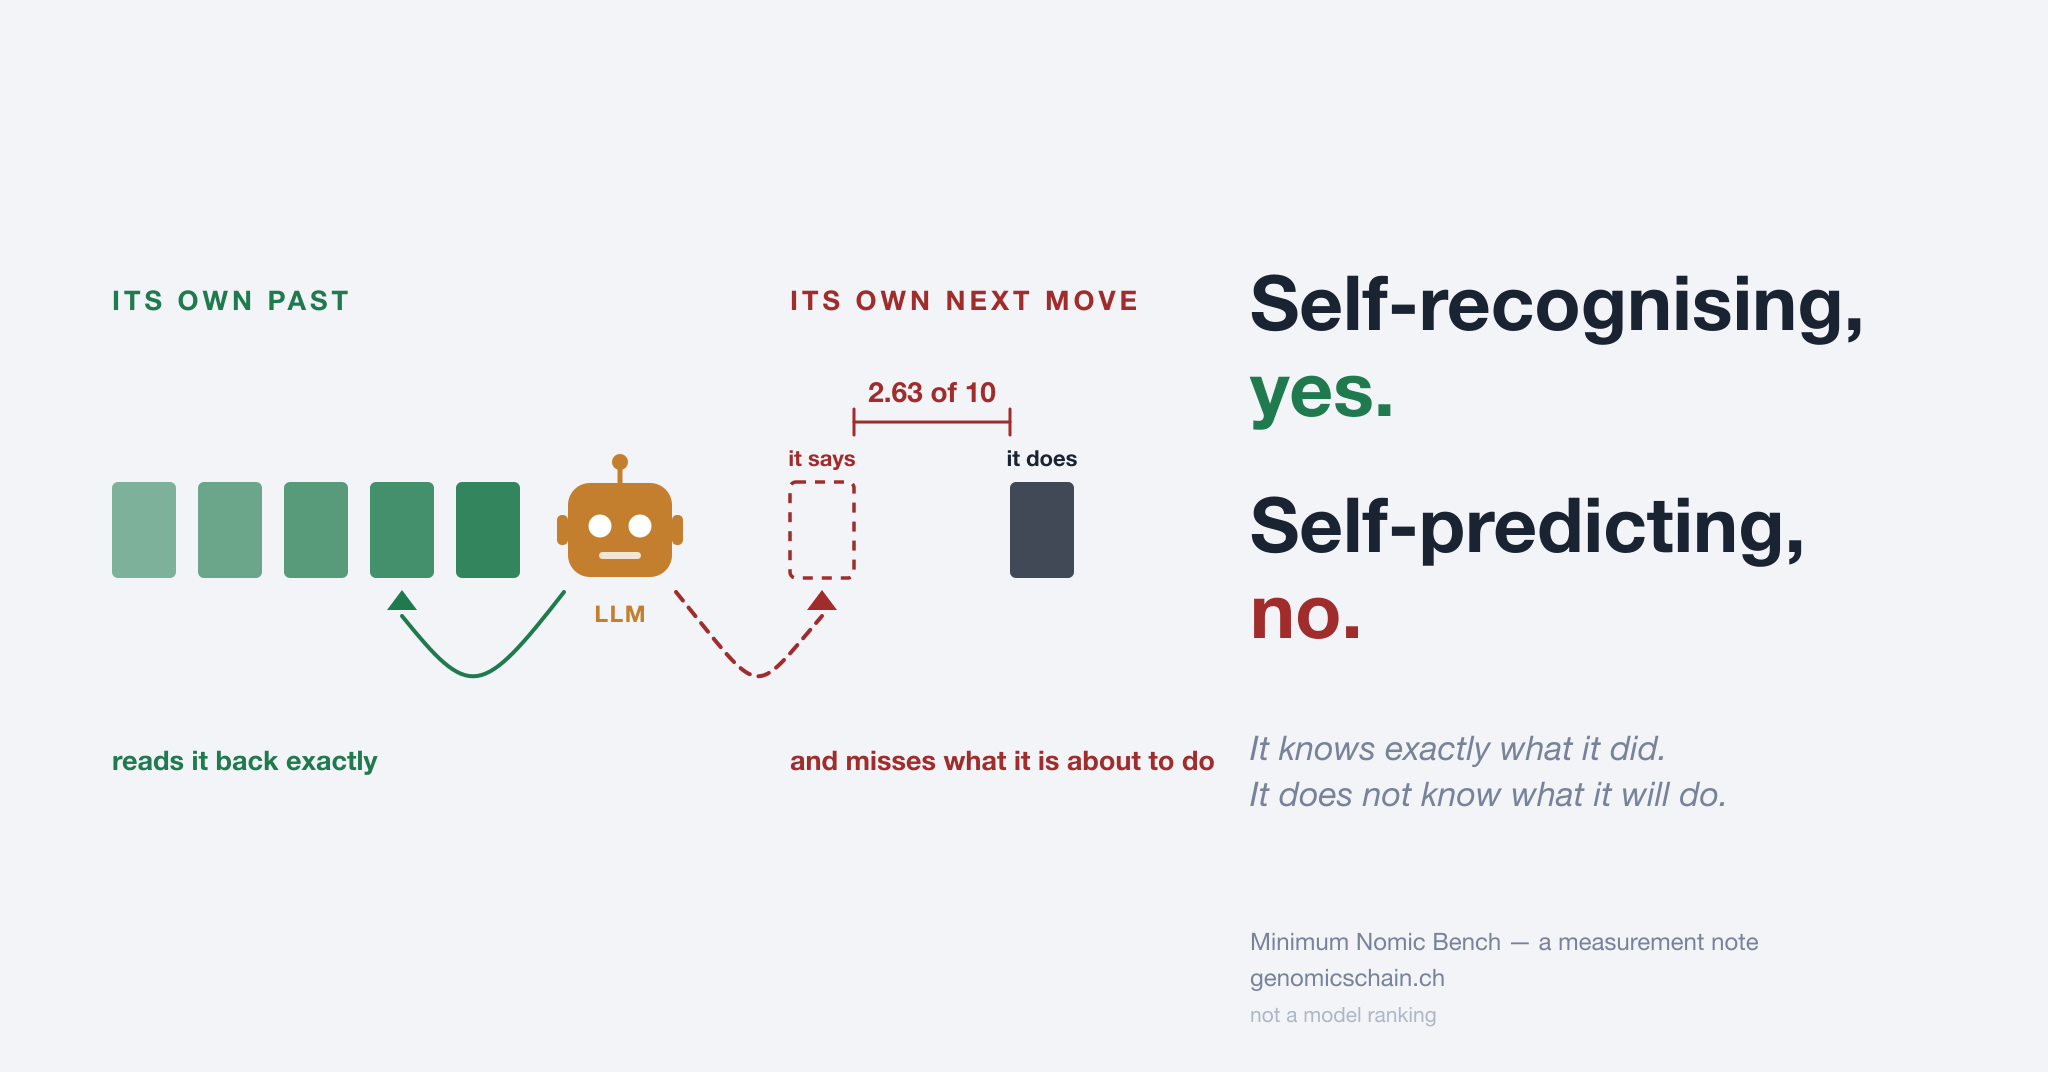
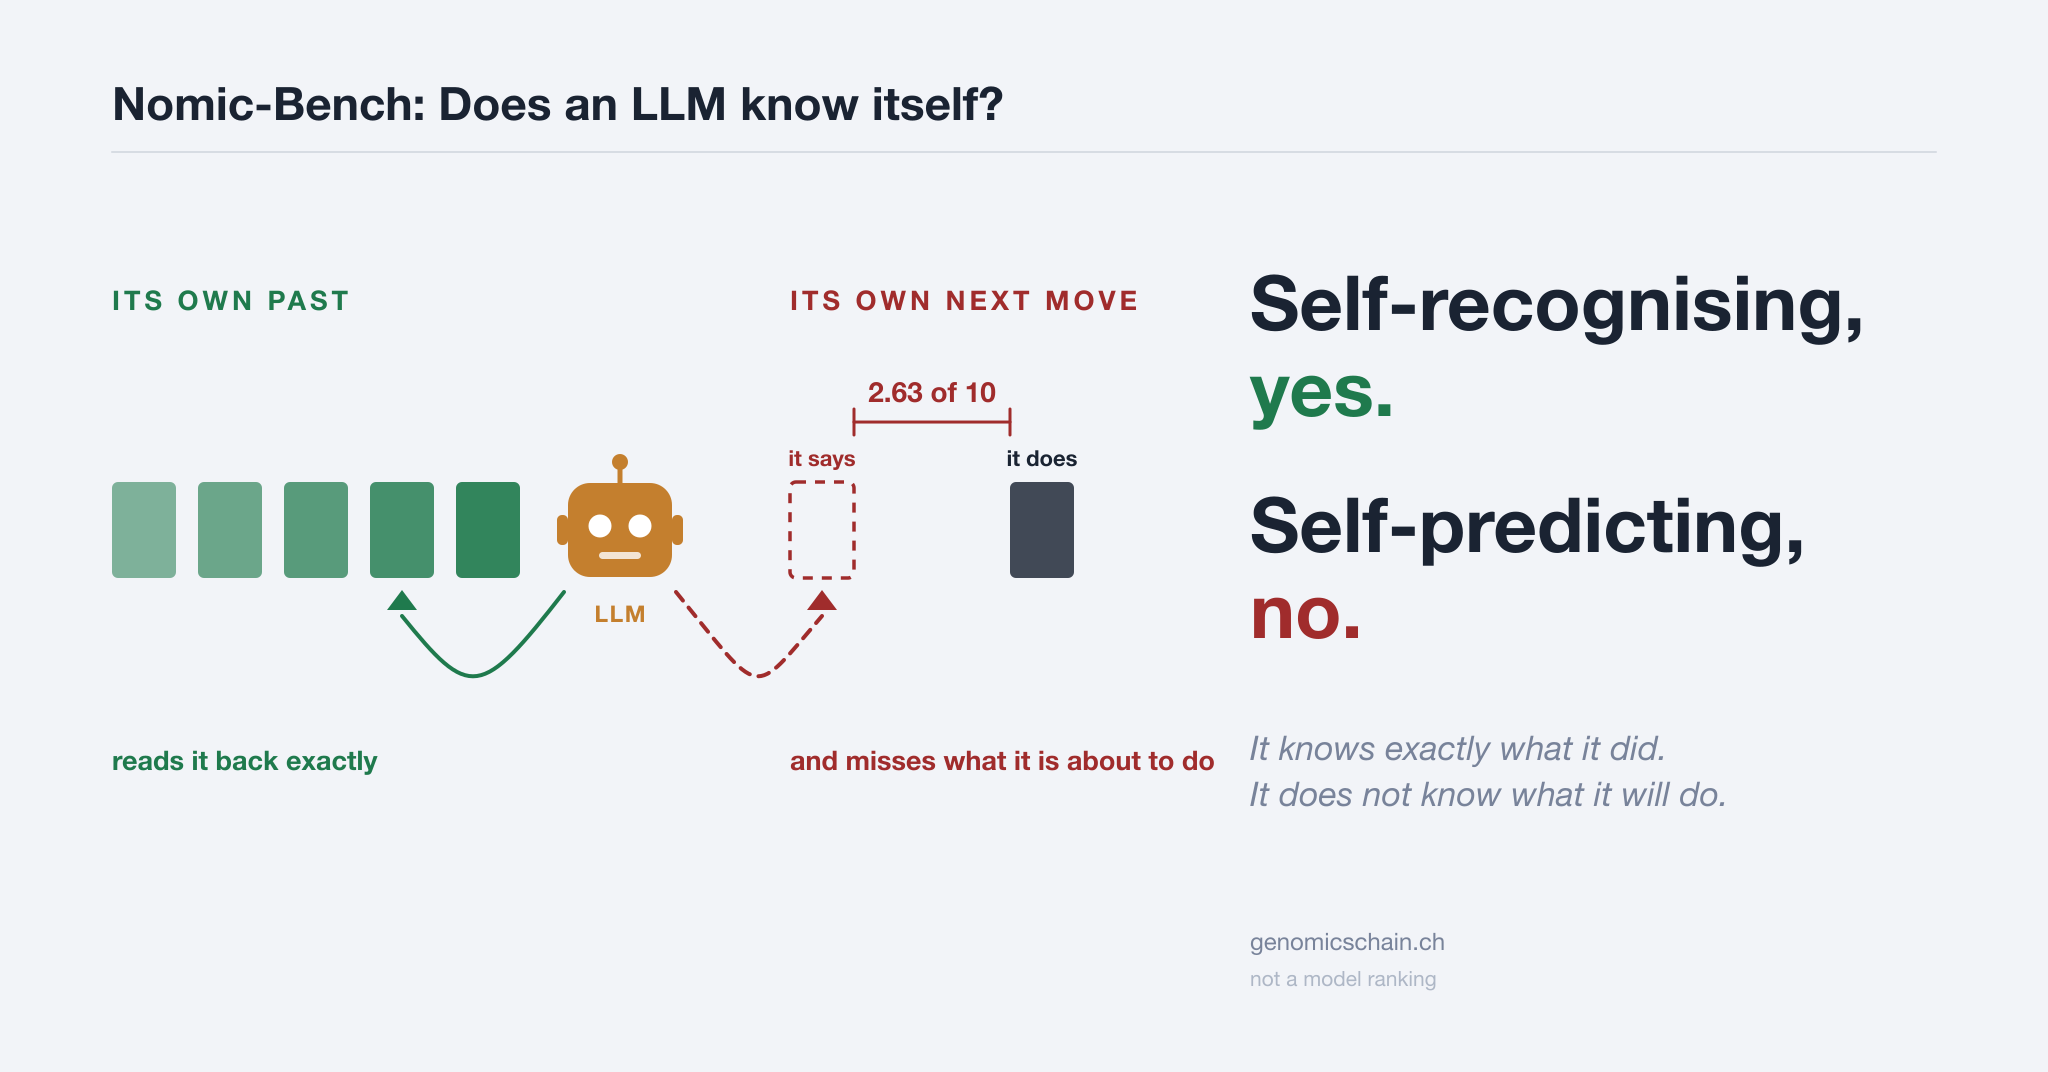
docs(nomic-bench): title the report with the question it actually answers
"Nomic-Bench: Does an LLM know itself?" with the finding demoted to subtitle.

The author's first proposal was "does an LLM know what self is?", which reaches
further but asks a question this work does not touch: understanding selfhood as
a concept was never measured. What was measured is whether a model's
self-description matches its own recorded behaviour - self-knowledge, not the
concept of a self. The Delphic form keeps the philosophical register without
promising something the appendices then have to take back.

Figure 1 carries the question as a kicker, so the LinkedIn image states the
frame and the finding together. One line added, one removed - the figure's word
count is unchanged, which matters because this image was rebuilt once already
for being too dense.

Changed region(s): [[0.0625, 0.0616, 0.5, 0.1231], [0.5938, 0.8619, 0.875, 0.9543]]

diff --git a/docs/reports/nomic_bench_selfmodel_report_20260914_ja.html b/docs/reports/nomic_bench_selfmodel_report_20260914_ja.html
@@ -3,7 +3,7 @@
 <head>
 <meta charset="utf-8">
 <meta name="viewport" content="width=device-width,initial-scale=1">
-<title>自分の過去は完璧に読める。これからの自分は読めない</title>
+<title>Nomic-Bench: LLM は自分を知っているか</title>
 <style>
 :root{--ink:#1a2332;--dim:#5b6068;--line:#dcdfe4;--bg:#fbfbfc;--panel:#fff;
   --green:#1f7a4d;--red:#a02c2c;--hi:#f6efd8;
@@ -45,8 +45,9 @@ footer{margin-top:56px;padding-top:20px;border-top:1px solid var(--line);
 </style>
 </head>
 <body><div class="wrap">
-<h1>自分の過去は完璧に読める。これからの自分は読めない</h1>
-<p><strong>Minimum Nomic Bench — 正解表の無い場で測る LLM の自己モデル</strong></p>
+<h1>Nomic-Bench: LLM は自分を知っているか</h1>
+<p><strong>自分の過去は完璧に読める。これからの自分は読めない</strong></p>
+<p><em>正解表の無いゲームで、LLM の自己モデルを測る</em></p>
 <p>畠山 剛臣 (Masaomi Hatakeyama) ／ 2026-09-14 ／ <a href="nomic_bench_selfmodel_report_20260914_en.html">English</a></p>
 <img src="nomic_bench_selfmodel_20260914_figure_ja.png" alt="自己再認はできる、自己予測はできない">
 <p>言語モデルは、自分が過去に何をしたかを寸分たがわず言い当てる。これから自分が何をするかは外す。<strong>同じモデルが、同じ日に、両方を示した。</strong></p>

diff --git a/docs/reports/nomic_bench_selfmodel_report_20260914_en.html b/docs/reports/nomic_bench_selfmodel_report_20260914_en.html
@@ -3,7 +3,7 @@
 <head>
 <meta charset="utf-8">
 <meta name="viewport" content="width=device-width,initial-scale=1">
-<title>It reads its own past perfectly. It cannot predict its own next move.</title>
+<title>Nomic-Bench: Does an LLM know itself?</title>
 <style>
 :root{--ink:#1a2332;--dim:#5b6068;--line:#dcdfe4;--bg:#fbfbfc;--panel:#fff;
   --green:#1f7a4d;--red:#a02c2c;--hi:#f6efd8;
@@ -45,8 +45,9 @@ footer{margin-top:56px;padding-top:20px;border-top:1px solid var(--line);
 </style>
 </head>
 <body><div class="wrap">
-<h1>It reads its own past perfectly. It cannot predict its own next move.</h1>
-<p><strong>Minimum Nomic Bench — measuring an LLM's self-model where no answer key exists</strong></p>
+<h1>Nomic-Bench: Does an LLM know itself?</h1>
+<p><strong>It reads its own past perfectly. It cannot predict its own next move.</strong></p>
+<p><em>Measuring an LLM's self-model in a game where no answer key exists</em></p>
 <p>Masaomi Hatakeyama / 2026-09-14 / <a href="nomic_bench_selfmodel_report_20260914_ja.html">日本語</a></p>
 <img src="nomic_bench_selfmodel_20260914_figure_en.png" alt="Self-recognising, yes. Self-predicting, no.">
 <p>A language model names exactly what it did in the past. It misses what it is about to do. <strong>The same model showed both, on the same day.</strong></p>

diff --git a/docs/reports/nomic_selfmodel_figure.py b/docs/reports/nomic_selfmodel_figure.py
@@ -120,6 +120,10 @@ def fig1(lang):
     BY = AX - BH // 2
     CX, PX, DX = 620, 790, 1010
 
+    f.T(112, 120, t("Nomic-Bench:  LLM は自分を知っているか",
+                    "Nomic-Bench:  Does an LLM know itself?"),
+        44 if f.ja else 46, INK, "700")
+    f.P("M112 152 L1936 152", LINE, 2)
     f.T(112, 310, t("自分の過去", "ITS OWN PAST"), 27, GREEN, "700", spacing="4")
     f.T(790, 310, t("これからの自分", "ITS OWN NEXT MOVE"), 27, RED, "700",
         spacing="4")
@@ -169,10 +173,8 @@ def fig1(lang):
     f.T(RX, 806, t("これから何をするかは、知らない。",
                    "It does not know what it will do."), 30 if f.ja else 34,
         GREY, italic=not f.ja)
-    f.T(RX, 950, t("Minimum Nomic Bench &#8212; 測定ノート",
-                   "Minimum Nomic Bench &#8212; a measurement note"), 24, GREY)
-    f.T(RX, 986, "genomicschain.ch", 24, GREY)
-    f.T(RX, 1022, t("モデルの優劣ではない", "not a model ranking"), 21, FAINT)
+    f.T(RX, 950, "genomicschain.ch", 24, GREY)
+    f.T(RX, 986, t("モデルの優劣ではない", "not a model ranking"), 21, FAINT)
     return f
 
 

diff --git a/docs/reports/nomic_bench_selfmodel_report_20260914_ja.md b/docs/reports/nomic_bench_selfmodel_report_20260914_ja.md
@@ -1,6 +1,8 @@
-# 自分の過去は完璧に読める。これからの自分は読めない
+# Nomic-Bench: LLM は自分を知っているか
 
-**Minimum Nomic Bench — 正解表の無い場で測る LLM の自己モデル**
+**自分の過去は完璧に読める。これからの自分は読めない**
+
+*正解表の無いゲームで、LLM の自己モデルを測る*
 
 畠山 剛臣 (Masaomi Hatakeyama) ／ 2026-09-14 ／ [English](nomic_bench_selfmodel_report_20260914_en.md)
 

diff --git a/docs/reports/nomic_bench_selfmodel_report_20260914_en.md b/docs/reports/nomic_bench_selfmodel_report_20260914_en.md
@@ -1,6 +1,8 @@
-# It reads its own past perfectly. It cannot predict its own next move.
+# Nomic-Bench: Does an LLM know itself?
 
-**Minimum Nomic Bench — measuring an LLM's self-model where no answer key exists**
+**It reads its own past perfectly. It cannot predict its own next move.**
+
+*Measuring an LLM's self-model in a game where no answer key exists*
 
 Masaomi Hatakeyama / 2026-09-14 / [日本語](nomic_bench_selfmodel_report_20260914_ja.md)
 
